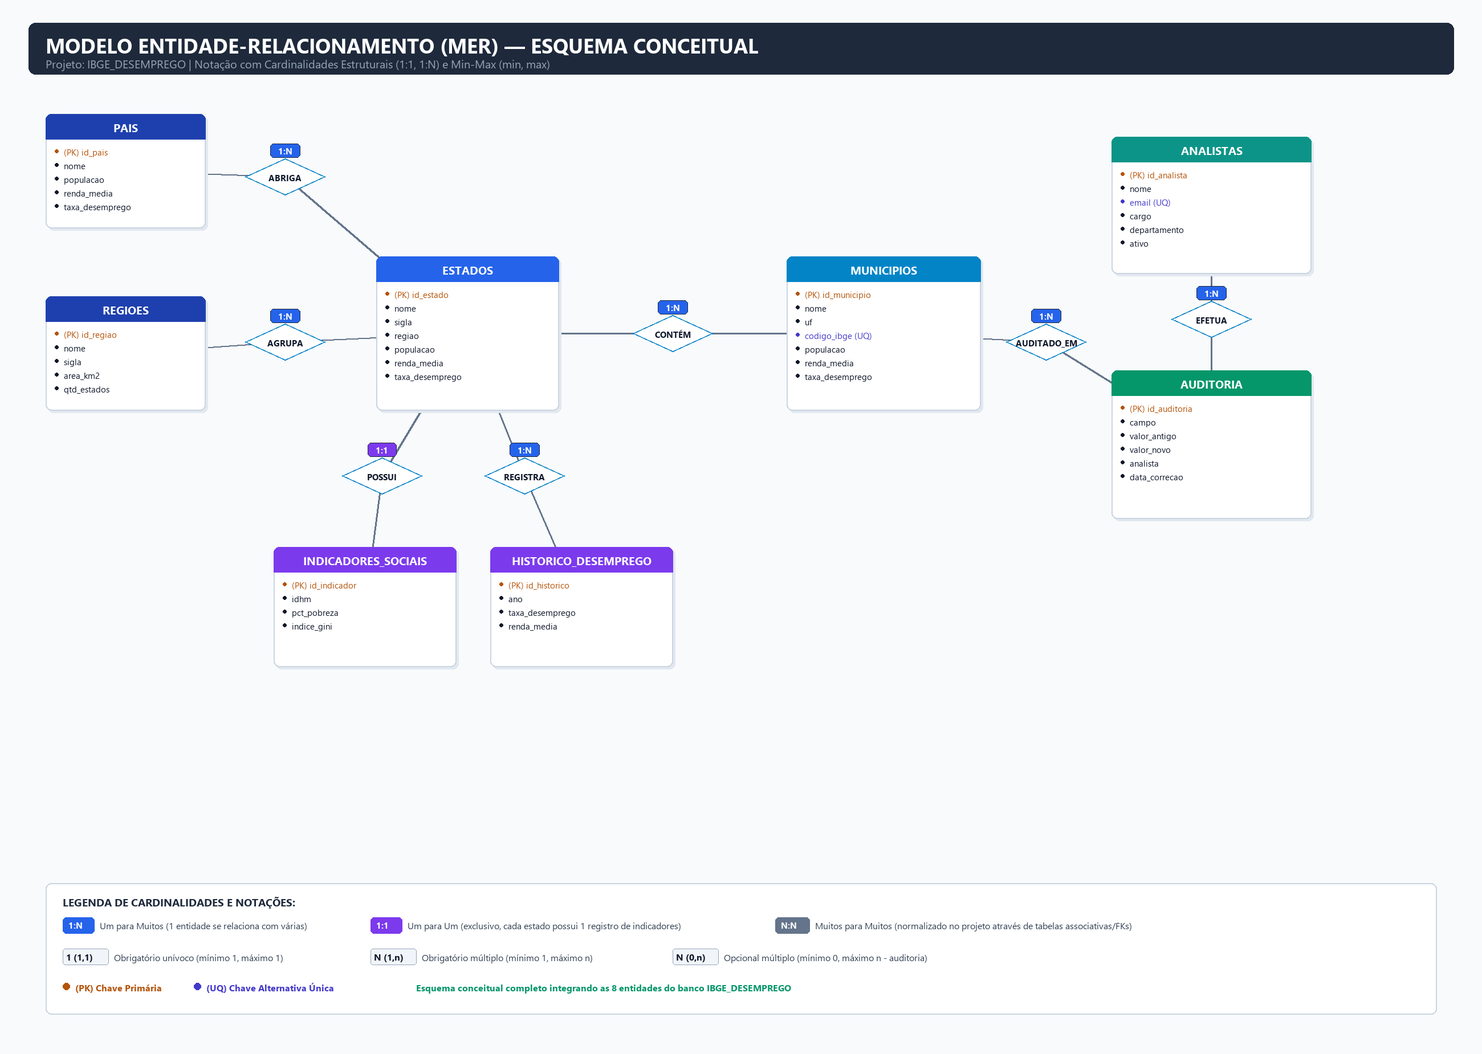
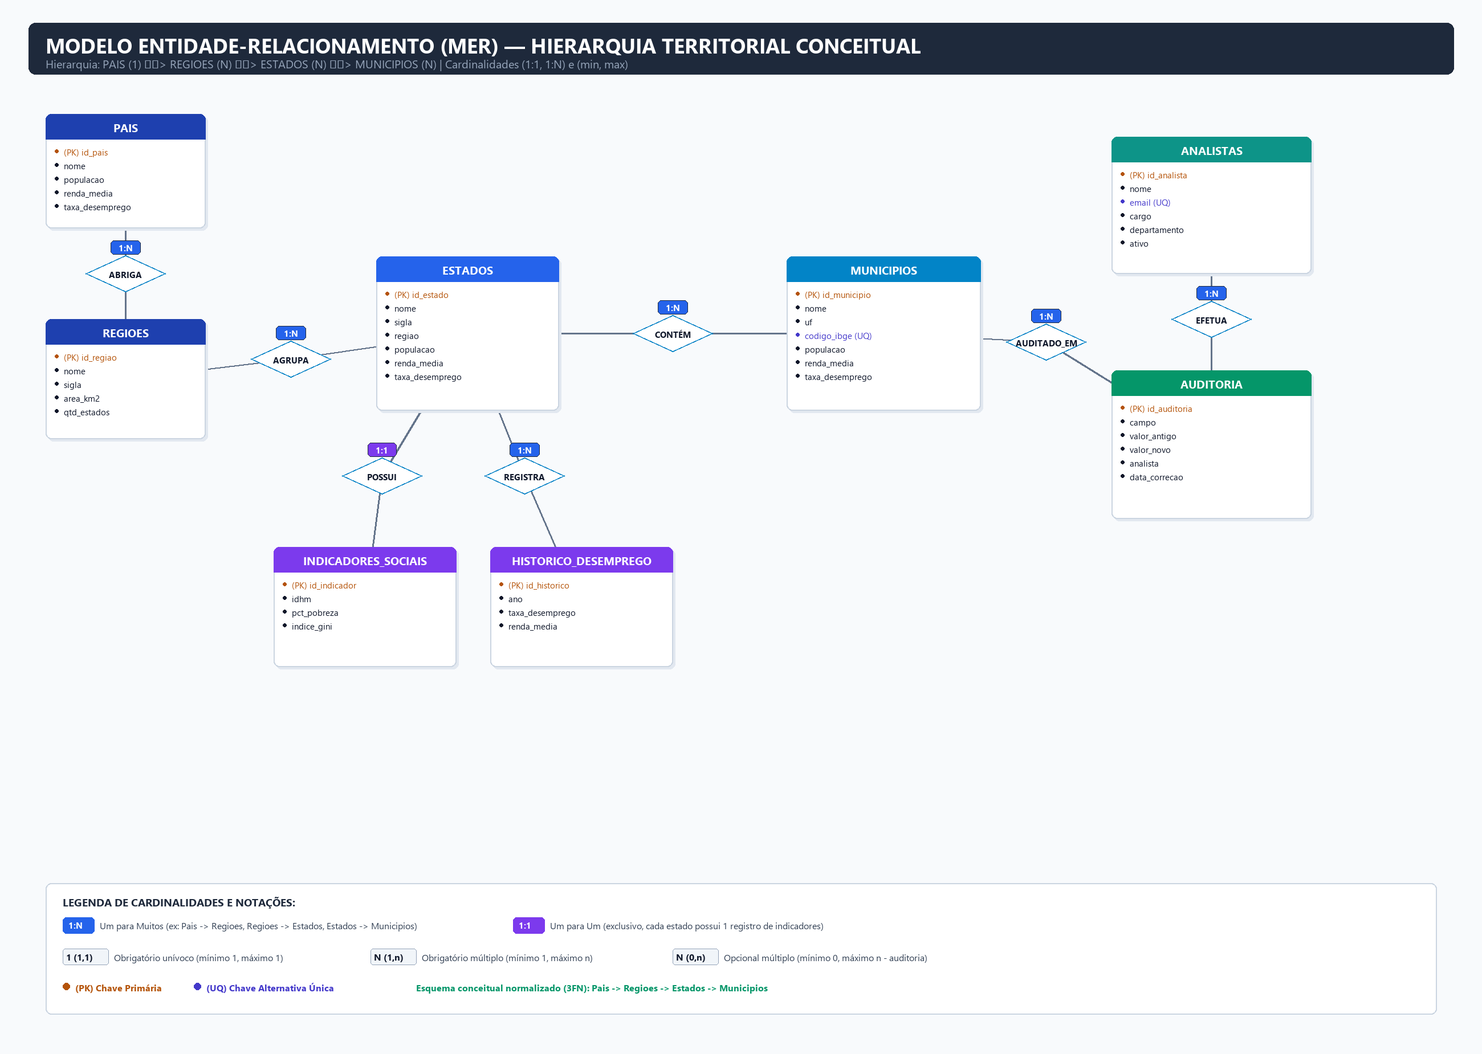
Normalizar hierarquia territorial para Pais -> Regioes -> Estados -> Municipios (3FN)
- Adicionado id_pais em Regioes como chave estrangeira de Pais
- Estados referencia exclusivamente Regioes (id_regiao NOT NULL), eliminando redundancia
- Atualizacao dos CSVs e scripts de inserts para Oracle e MySQL
- Regeneracao dos diagramas conceituais (MER) e relacionais (DER) em PNG
- Atualizacao do Minimundo e matriz de relacionamentos

diff --git a/modelagem/gerar_diagramas.py b/modelagem/gerar_diagramas.py
@@ -42,14 +42,13 @@ def generate_mer():
     f_rel = get_font("segoeuib.ttf", 15)
     f_badge = get_font("segoeuib.ttf", 15)
     f_card = get_font("segoeuib.ttf", 16)
-    f_card_macro = get_font("segoeuib.ttf", 22)
     f_leg = get_font("segoeui.ttf", 16)
     f_leg_b = get_font("segoeuib.ttf", 16)
 
     # Header
     draw_rounded_rect(draw, (50, 40, W - 50, 130), 12, fill="#1E293B")
-    draw.text((80, 55), "MODELO ENTIDADE-RELACIONAMENTO (MER) — ESQUEMA CONCEITUAL", font=f_title, fill="#FFFFFF")
-    draw.text((80, 98), "Projeto: IBGE_DESEMPREGO | Notação com Cardinalidades Estruturais (1:1, 1:N) e Min-Max (min, max)", font=f_sub, fill="#94A3B8")
+    draw.text((80, 55), "MODELO ENTIDADE-RELACIONAMENTO (MER) — HIERARQUIA TERRITORIAL CONCEITUAL", font=f_title, fill="#FFFFFF")
+    draw.text((80, 98), "Hierarquia: PAIS (1) ──> REGIOES (N) ──> ESTADOS (N) ──> MUNICIPIOS (N) | Cardinalidades (1:1, 1:N) e (min, max)", font=f_sub, fill="#94A3B8")
 
     # Entities Data
     entities = {
@@ -62,7 +61,7 @@ def generate_mer():
         "REGIOES": {
             "title": "REGIOES",
             "attrs": ["(PK) id_regiao", "nome", "sigla", "area_km2", "qtd_estados"],
-            "rect": (80, 520, 360, 720),
+            "rect": (80, 560, 360, 770),
             "header_color": "#1E40AF"
         },
         "ESTADOS": {
@@ -103,10 +102,10 @@ def generate_mer():
         }
     }
 
-    # Relationships with macro type (1:N, 1:1) and min-max
+    # Relationships reflecting PAIS -> REGIOES -> ESTADOS -> MUNICIPIOS
     relations = [
-        {"name": "ABRIGA", "macro": "1:N", "pos": (500, 310), "e1": "PAIS", "m1": "1", "c1": "(1,1)", "e2": "ESTADOS", "m2": "N", "c2": "(1,n)"},
-        {"name": "AGRUPA", "macro": "1:N", "pos": (500, 600), "e1": "REGIOES", "m1": "1", "c1": "(1,1)", "e2": "ESTADOS", "m2": "N", "c2": "(1,n)"},
+        {"name": "ABRIGA", "macro": "1:N", "pos": (220, 480), "e1": "PAIS", "m1": "1", "c1": "(1,1)", "e2": "REGIOES", "m2": "N", "c2": "(1,n)"},
+        {"name": "AGRUPA", "macro": "1:N", "pos": (510, 630), "e1": "REGIOES", "m1": "1", "c1": "(1,1)", "e2": "ESTADOS", "m2": "N", "c2": "(1,n)"},
         {"name": "POSSUI", "macro": "1:1", "pos": (670, 835), "e1": "ESTADOS", "m1": "1", "c1": "(1,1)", "e2": "INDICADORES_SOCIAIS", "m2": "1", "c2": "(1,1)"},
         {"name": "REGISTRA", "macro": "1:N", "pos": (920, 835), "e1": "ESTADOS", "m1": "1", "c1": "(1,1)", "e2": "HISTORICO_DESEMPREGO", "m2": "N", "c2": "(1,n)"},
         {"name": "CONTÉM", "macro": "1:N", "pos": (1180, 585), "e1": "ESTADOS", "m1": "1", "c1": "(1,1)", "e2": "MUNICIPIOS", "m2": "N", "c2": "(1,n)"},
@@ -114,7 +113,7 @@ def generate_mer():
         {"name": "EFETUA", "macro": "1:N", "pos": (2125, 560), "e1": "ANALISTAS", "m1": "1", "c1": "(1,1)", "e2": "AUDITORIA", "m2": "N", "c2": "(0,n)"}
     ]
 
-    # Draw Relations & Connecting Lines First
+    # Draw Relations & Connecting Lines
     for r in relations:
         cx, cy = r["pos"]
         e1 = entities[r["e1"]]["rect"]
@@ -126,13 +125,13 @@ def generate_mer():
         draw.line([c1_pt, (cx, cy)], fill="#64748B", width=3)
         draw.line([(cx, cy), c2_pt], fill="#64748B", width=3)
 
-        # Diamond (Losango do Relacionamento)
+        # Diamond
         rw, rh = 140, 64
         draw_diamond(draw, cx, cy, rw, rh, fill="#FFFFFF", outline="#0284C7", width=2)
         tw = draw.textlength(r["name"], font=f_rel)
         draw.text((cx - tw//2, cy - 9), r["name"], font=f_rel, fill="#0F172A")
 
-        # Macro Badge (ex: 1:N ou 1:1) right above diamond
+        # Macro Badge (1:N ou 1:1)
         badge_text = f"  {r['macro']}  "
         bw = draw.textlength(badge_text, font=f_badge) + 12
         badge_bg = "#2563EB" if r["macro"] == "1:N" else "#7C3AED"
@@ -145,29 +144,23 @@ def generate_mer():
         m2x = (c2_pt[0] * 3 + cx) // 4
         m2y = (c2_pt[1] * 3 + cy) // 4
 
-        # Near e1: Macro '1' or 'N' and Min-Max '(1,1)'
         draw_rounded_rect(draw, (m1x - 30, m1y - 15, m1x + 30, m1y + 15), 5, fill="#F1F5F9", outline="#94A3B8")
         draw.text((m1x - 24, m1y - 12), f"{r['m1']} {r['c1']}", font=f_card, fill="#0F172A")
 
-        # Near e2: Macro '1' or 'N' and Min-Max
         draw_rounded_rect(draw, (m2x - 30, m2y - 15, m2x + 30, m2y + 15), 5, fill="#F1F5F9", outline="#94A3B8")
         draw.text((m2x - 24, m2y - 12), f"{r['m2']} {r['c2']}", font=f_card, fill="#0F172A")
 
     # Draw Entities Boxes
     for k, e in entities.items():
         x0, y0, x1, y1 = e["rect"]
-        # Drop shadow
         draw_rounded_rect(draw, (x0+4, y0+4, x1+4, y1+4), 10, fill="#E2E8F0")
-        # Body
         draw_rounded_rect(draw, (x0, y0, x1, y1), 10, fill="#FFFFFF", outline="#CBD5E1", width=2)
-        # Header banner
         draw.rounded_rectangle([x0, y0, x1, y0 + 44], radius=10, fill=e["header_color"])
         draw.rectangle([x0, y0 + 30, x1, y0 + 44], fill=e["header_color"])
 
         tw = draw.textlength(e["title"], font=f_ent_title)
         draw.text(((x0 + x1)//2 - tw//2, y0 + 10), e["title"], font=f_ent_title, fill="#FFFFFF")
 
-        # Attributes list
         cur_y = y0 + 56
         for attr in e["attrs"]:
             is_pk = "(PK)" in attr
@@ -178,7 +171,6 @@ def generate_mer():
             elif is_uq:
                 color = "#4338CA"
 
-            # bullet point
             draw.ellipse((x0 + 16, cur_y + 6, x0 + 22, cur_y + 12), fill=color)
             draw.text((x0 + 32, cur_y), attr, font=f_ent_attr, fill=color)
             cur_y += 24
@@ -188,20 +180,14 @@ def generate_mer():
     draw_rounded_rect(draw, (leg_x0, leg_y0, leg_x1, leg_y1), 10, fill="#FFFFFF", outline="#CBD5E1", width=2)
     draw.text((leg_x0 + 30, leg_y0 + 20), "LEGENDA DE CARDINALIDADES E NOTAÇÕES:", font=get_font("segoeuib.ttf", 19), fill="#1E293B")
 
-    # Row 1: Macro Cardinalities
     draw_rounded_rect(draw, (leg_x0 + 30, leg_y0 + 60, leg_x0 + 85, leg_y0 + 88), 6, fill="#2563EB")
     draw.text((leg_x0 + 40, leg_y0 + 63), "1:N", font=f_badge, fill="#FFFFFF")
-    draw.text((leg_x0 + 95, leg_y0 + 63), "Um para Muitos (1 entidade se relaciona com várias)", font=f_leg, fill="#334155")
+    draw.text((leg_x0 + 95, leg_y0 + 63), "Um para Muitos (ex: Pais -> Regioes, Regioes -> Estados, Estados -> Municipios)", font=f_leg, fill="#334155")
 
-    draw_rounded_rect(draw, (leg_x0 + 570, leg_y0 + 60, leg_x0 + 625, leg_y0 + 88), 6, fill="#7C3AED")
-    draw.text((leg_x0 + 580, leg_y0 + 63), "1:1", font=f_badge, fill="#FFFFFF")
-    draw.text((leg_x0 + 635, leg_y0 + 63), "Um para Um (exclusivo, cada estado possui 1 registro de indicadores)", font=f_leg, fill="#334155")
+    draw_rounded_rect(draw, (leg_x0 + 820, leg_y0 + 60, leg_x0 + 875, leg_y0 + 88), 6, fill="#7C3AED")
+    draw.text((leg_x0 + 830, leg_y0 + 63), "1:1", font=f_badge, fill="#FFFFFF")
+    draw.text((leg_x0 + 885, leg_y0 + 63), "Um para Um (exclusivo, cada estado possui 1 registro de indicadores)", font=f_leg, fill="#334155")
 
-    draw_rounded_rect(draw, (leg_x0 + 1280, leg_y0 + 60, leg_x0 + 1340, leg_y0 + 88), 6, fill="#64748B")
-    draw.text((leg_x0 + 1290, leg_y0 + 63), "N:N", font=f_badge, fill="#FFFFFF")
-    draw.text((leg_x0 + 1350, leg_y0 + 63), "Muitos para Muitos (normalizado no projeto através de tabelas associativas/FKs)", font=f_leg, fill="#334155")
-
-    # Row 2: Min-Max and Badges
     draw_rounded_rect(draw, (leg_x0 + 30, leg_y0 + 115, leg_x0 + 110, leg_y0 + 143), 5, fill="#F1F5F9", outline="#94A3B8")
     draw.text((leg_x0 + 36, leg_y0 + 118), "1 (1,1)", font=f_card, fill="#0F172A")
     draw.text((leg_x0 + 120, leg_y0 + 119), "Obrigatório unívoco (mínimo 1, máximo 1)", font=f_leg, fill="#334155")
@@ -214,14 +200,13 @@ def generate_mer():
     draw.text((leg_x0 + 1106, leg_y0 + 118), "N (0,n)", font=f_card, fill="#0F172A")
     draw.text((leg_x0 + 1190, leg_y0 + 119), "Opcional múltiplo (mínimo 0, máximo n - auditoria)", font=f_leg, fill="#334155")
 
-    # Row 3: PK & UQ
     draw.ellipse((leg_x0 + 30, leg_y0 + 175, leg_x0 + 42, leg_y0 + 187), fill="#B45309")
     draw.text((leg_x0 + 52, leg_y0 + 172), "(PK) Chave Primária", font=f_leg_b, fill="#B45309")
 
     draw.ellipse((leg_x0 + 260, leg_y0 + 175, leg_x0 + 272, leg_y0 + 187), fill="#4338CA")
     draw.text((leg_x0 + 282, leg_y0 + 172), "(UQ) Chave Alternativa Única", font=f_leg_b, fill="#4338CA")
 
-    draw.text((leg_x0 + 650, leg_y0 + 172), "Esquema conceitual completo integrando as 8 entidades do banco IBGE_DESEMPREGO", font=get_font("segoeuib.ttf", 16), fill="#059669")
+    draw.text((leg_x0 + 650, leg_y0 + 172), "Esquema conceitual normalizado (3FN): Pais -> Regioes -> Estados -> Municipios", font=get_font("segoeuib.ttf", 16), fill="#059669")
 
     out_path = "modelagem/modelo_entidade_relacionamento.png"
     img.save(out_path, dpi=(300, 300))
@@ -247,8 +232,8 @@ def generate_relacional():
 
     # Header
     draw_rounded_rect(draw, (50, 40, W - 50, 130), 12, fill="#0F172A")
-    draw.text((80, 55), "MODELO RELACIONAL — ESQUEMA LÓGICO / FÍSICO COM CARDINALIDADES (1:1, 1:N)", font=f_title, fill="#FFFFFF")
-    draw.text((80, 98), "Tabelas, Colunas, Tipos de Dados, Chaves Primárias (PK), Estrangeiras (FK) e Cardinalidades Relacionais", font=f_sub, fill="#94A3B8")
+    draw.text((80, 55), "MODELO RELACIONAL — ESQUEMA LÓGICO / FÍSICO HIERÁRQUICO (3FN)", font=f_title, fill="#FFFFFF")
+    draw.text((80, 98), "Hierarquia: Pais (PK) -> Regioes (FK id_pais) -> Estados (FK id_regiao) -> Municipios (FK id_estado)", font=f_sub, fill="#94A3B8")
 
     # Tables specification
     tables = {
@@ -268,19 +253,19 @@ def generate_relacional():
             "title": "Regioes",
             "cols": [
                 ("id_regiao", "NUMBER(1)", "PK"),
+                ("id_pais", "NUMBER(4)", "FK"),
                 ("nome", "VARCHAR2(20)", "UQ"),
                 ("sigla", "VARCHAR2(2)", "UQ"),
                 ("area_km2", "NUMBER(10,2)", None),
                 ("qtd_estados", "NUMBER(2)", None),
             ],
-            "rect": (80, 490, 440, 700),
+            "rect": (80, 520, 440, 760),
             "color": "#1E40AF"
         },
         "Estados": {
             "title": "Estados",
             "cols": [
                 ("id_estado", "NUMBER(2)", "PK"),
-                ("id_pais", "NUMBER(4)", "FK"),
                 ("id_regiao", "NUMBER(1)", "FK"),
                 ("nome", "VARCHAR2(50)", None),
                 ("sigla", "VARCHAR2(2)", "UQ"),
@@ -289,7 +274,7 @@ def generate_relacional():
                 ("renda_media", "NUMBER(12,2)", None),
                 ("taxa_desemprego", "NUMBER(5,2)", None),
             ],
-            "rect": (660, 310, 1060, 680),
+            "rect": (660, 310, 1060, 650),
             "color": "#2563EB"
         },
         "Indicadores_Sociais": {
@@ -361,18 +346,18 @@ def generate_relacional():
         }
     }
 
-    # Foreign Key Connectors with Cardinality Badges (1:N or 1:1)
+    # Foreign Key Connectors: PAIS -> REGIOES -> ESTADOS -> MUNICIPIOS
     fk_links = [
-        # Estados.id_pais -> Pais.id_pais
-        {"from": (660, 380), "to": (440, 240), "color": "#2563EB", "card": "1:N", "pk_label": "1", "fk_label": "N"},
+        # Regioes.id_pais -> Pais.id_pais
+        {"from": (260, 520), "to": (260, 410), "color": "#1E40AF", "card": "1:N", "pk_label": "1", "fk_label": "N"},
         # Estados.id_regiao -> Regioes.id_regiao
-        {"from": (660, 410), "to": (440, 530), "color": "#2563EB", "card": "1:N", "pk_label": "1", "fk_label": "N"},
+        {"from": (660, 380), "to": (440, 590), "color": "#2563EB", "card": "1:N", "pk_label": "1", "fk_label": "N"},
         # Municipios.id_estado -> Estados.id_estado
         {"from": (1480, 380), "to": (1060, 350), "color": "#0284C7", "card": "1:N", "pk_label": "1", "fk_label": "N"},
         # Indicadores_Sociais.id_estado -> Estados.id_estado (1:1)
-        {"from": (680, 940), "to": (750, 680), "color": "#7C3AED", "card": "1:1", "pk_label": "1", "fk_label": "1"},
+        {"from": (680, 940), "to": (750, 650), "color": "#7C3AED", "card": "1:1", "pk_label": "1", "fk_label": "1"},
         # Historico_Desemprego.id_estado -> Estados.id_estado (1:N)
-        {"from": (1100, 940), "to": (950, 680), "color": "#7C3AED", "card": "1:N", "pk_label": "1", "fk_label": "N"},
+        {"from": (1100, 940), "to": (950, 650), "color": "#7C3AED", "card": "1:N", "pk_label": "1", "fk_label": "N"},
         # Auditoria.codigo_ibge -> Municipios.codigo_ibge (1:N)
         {"from": (2120, 715), "to": (1890, 490), "color": "#059669", "card": "1:N", "pk_label": "1", "fk_label": "N"},
         # Auditoria.id_analista -> Analistas.id_analista (1:N)
@@ -387,16 +372,23 @@ def generate_relacional():
 
         # Orthogonal path
         mid_x = (fx + tx) // 2
-        draw.line([(fx, fy), (mid_x, fy)], fill=color, width=3)
-        draw.line([(mid_x, fy), (mid_x, ty)], fill=color, width=3)
-        draw.line([(mid_x, ty), (tx, ty)], fill=color, width=3)
+        mid_y = (fy + ty) // 2
 
-        # End markers: circle at from (many/FK end), arrow at to (1/PK end)
+        if fx == tx:
+            # Vertical straight line
+            draw.line([(fx, fy), (tx, ty)], fill=color, width=3)
+            badge_x, badge_y = fx, mid_y
+        else:
+            draw.line([(fx, fy), (mid_x, fy)], fill=color, width=3)
+            draw.line([(mid_x, fy), (mid_x, ty)], fill=color, width=3)
+            draw.line([(mid_x, ty), (tx, ty)], fill=color, width=3)
+            badge_x, badge_y = mid_x, mid_y
+
         draw.ellipse((fx - 5, fy - 5, fx + 5, fy + 5), fill=color)
 
-        if tx > mid_x:
+        if tx > mid_x and fx != tx:
             draw.polygon([(tx, ty), (tx - 10, ty - 6), (tx - 10, ty + 6)], fill=color)
-        elif tx < mid_x:
+        elif tx < mid_x and fx != tx:
             draw.polygon([(tx, ty), (tx + 10, ty - 6), (tx + 10, ty + 6)], fill=color)
         elif ty > fy:
             draw.polygon([(tx, ty), (tx - 6, ty - 10), (tx + 6, ty - 10)], fill=color)
@@ -404,31 +396,24 @@ def generate_relacional():
             draw.polygon([(tx, ty), (tx - 6, ty + 10), (tx + 6, ty + 10)], fill=color)
 
         # Cardinality Badge directly on line
-        badge_x = mid_x
-        badge_y = (fy + ty) // 2
         b_text = f" {l['card']} "
         bw = draw.textlength(b_text, font=f_card_pill) + 10
         draw_rounded_rect(draw, (badge_x - bw//2, badge_y - 12, badge_x + bw//2, badge_y + 12), 5, fill="#FFFFFF", outline=color, width=2)
         draw.text((badge_x - bw//2 + 5, badge_y - 10), b_text, font=f_card_pill, fill=color)
 
-        # Text labels '1' near target and 'N' near source
         draw.text((tx + (10 if tx < fx else -20), ty - 18), l["pk_label"], font=get_font("segoeuib.ttf", 16), fill=color)
         draw.text((fx + (-22 if tx < fx else 10), fy - 18), l["fk_label"], font=get_font("segoeuib.ttf", 16), fill=color)
 
     # Draw Table Cards
     for k, t in tables.items():
         x0, y0, x1, y1 = t["rect"]
-        # Drop shadow
         draw_rounded_rect(draw, (x0+5, y0+5, x1+5, y1+5), 10, fill="#E2E8F0")
-        # Body
         draw_rounded_rect(draw, (x0, y0, x1, y1), 10, fill="#FFFFFF", outline="#CBD5E1", width=2)
-        # Header banner
         draw.rounded_rectangle([x0, y0, x1, y0 + 44], radius=10, fill=t["color"])
         draw.rectangle([x0, y0 + 30, x1, y0 + 44], fill=t["color"])
 
         draw.text((x0 + 16, y0 + 10), t["title"], font=f_tbl_title, fill="#FFFFFF")
 
-        # Columns
         cur_y = y0 + 54
         for col_name, col_type, tag in t["cols"]:
             if tag:
@@ -458,16 +443,14 @@ def generate_relacional():
     draw_rounded_rect(draw, (leg_x0, leg_y0, leg_x1, leg_y1), 10, fill="#FFFFFF", outline="#CBD5E1", width=2)
     draw.text((leg_x0 + 30, leg_y0 + 20), "LEGENDA DO ESQUEMA RELACIONAL E CARDINALIDADES:", font=get_font("segoeuib.ttf", 19), fill="#1E293B")
 
-    # Cardinality badges
     draw_rounded_rect(draw, (leg_x0 + 30, leg_y0 + 60, leg_x0 + 85, leg_y0 + 88), 5, fill="#FFFFFF", outline="#2563EB", width=2)
     draw.text((leg_x0 + 40, leg_y0 + 64), " 1:N ", font=f_card_pill, fill="#2563EB")
-    draw.text((leg_x0 + 95, leg_y0 + 64), "Relação 1 para N (1 chave primária referenciada por múltiplas linhas na FK)", font=f_leg, fill="#334155")
+    draw.text((leg_x0 + 95, leg_y0 + 64), "Relação 1 para N (Hierarquia 3FN: Pais -> Regioes -> Estados -> Municipios)", font=f_leg, fill="#334155")
 
-    draw_rounded_rect(draw, (leg_x0 + 800, leg_y0 + 60, leg_x0 + 855, leg_y0 + 88), 5, fill="#FFFFFF", outline="#7C3AED", width=2)
-    draw.text((leg_x0 + 810, leg_y0 + 64), " 1:1 ", font=f_card_pill, fill="#7C3AED")
-    draw.text((leg_x0 + 865, leg_y0 + 64), "Relação 1 para 1 (FK com constraint UNIQUE - relação unívoca)", font=f_leg, fill="#334155")
+    draw_rounded_rect(draw, (leg_x0 + 840, leg_y0 + 60, leg_x0 + 895, leg_y0 + 88), 5, fill="#FFFFFF", outline="#7C3AED", width=2)
+    draw.text((leg_x0 + 850, leg_y0 + 64), " 1:1 ", font=f_card_pill, fill="#7C3AED")
+    draw.text((leg_x0 + 905, leg_y0 + 64), "Relação 1 para 1 (FK com constraint UNIQUE - relação unívoca)", font=f_leg, fill="#334155")
 
-    # Badges explanations
     draw_rounded_rect(draw, (leg_x0 + 30, leg_y0 + 115, leg_x0 + 65, leg_y0 + 137), 4, fill="#FEF3C7", outline="#D97706")
     draw.text((leg_x0 + 38, leg_y0 + 118), "PK", font=f_tag, fill="#B45309")
     draw.text((leg_x0 + 75, leg_y0 + 116), "Primary Key (Chave Primária)", font=f_leg, fill="#334155")
@@ -480,7 +463,6 @@ def generate_relacional():
     draw.text((leg_x0 + 756, leg_y0 + 118), "UQ", font=f_tag, fill="#6D28D9")
     draw.text((leg_x0 + 795, leg_y0 + 116), "Unique Constraint (Restrição de Unicidade)", font=f_leg, fill="#334155")
 
-    # Lines explanation
     draw.line([(leg_x0 + 30, leg_y0 + 175), (leg_x0 + 70, leg_y0 + 175)], fill="#2563EB", width=3)
     draw.polygon([(leg_x0 + 75, leg_y0 + 175), (leg_x0 + 68, leg_y0 + 170), (leg_x0 + 68, leg_y0 + 180)], fill="#2563EB")
     draw.ellipse((leg_x0 + 26, leg_y0 + 171, leg_x0 + 34, leg_y0 + 179), fill="#2563EB")

diff --git a/modelagem/README.md b/modelagem/README.md
@@ -1,6 +1,6 @@
 # Entregável 1: Modelagem do Banco de Dados — IBGE_DESEMPREGO
 
-Este documento e pasta compõem o **Entregável Documental (Concepção e Modelagem)** da disciplina Banco de Dados 2 (IFSP), contemplando o **Minimundo**, o **Modelo Entidade-Relacionamento (MER)** e o **Modelo Relacional** integrando o esquema base do IBGE.
+Este documento e pasta compõem o **Entregável Documental (Concepção e Modelagem)** da disciplina Banco de Dados 2 (IFSP), contemplando o **Minimundo**, o **Modelo Entidade-Relacionamento (MER)** e o **Modelo Relacional** integrando o esquema base do IBGE em conformidade estrita com a 3ª Forma Normal (3FN).
 
 ---
 
@@ -8,10 +8,13 @@ Este documento e pasta compõem o **Entregável Documental (Concepção e Modela
 
 O sistema **IBGE_DESEMPREGO** tem por finalidade centralizar, gerenciar e disponibilizar dados socioeconômicos e estatísticas oficiais sobre o mercado de trabalho brasileiro, permitindo análises comparativas e espaciais entre macro-regiões, unidades federativas e municípios.
 
-### 1.1. Estrutura Territorial Base
-O domínio abrange o território nacional (**Pais**), subdividido nas cinco macro-regiões oficiais do IBGE (**Regioes**: Norte, Nordeste, Sudeste, Sul e Centro-Oeste). Cada região agrega múltiplos **Estados** (UFs), e cada estado é composto por dezenas ou centenas de **Municipios**. 
-* Cada estado possui código de identificação, sigla única de 2 caracteres, nome oficial, população residente, renda média e taxa de desocupação (desemprego).
-* Cada município é identificado unicamente pelo seu **código oficial do IBGE de 7 dígitos**, além de armazenar seu nome, UF de vínculo, população e os indicadores locais de rendimento médio e taxa de desemprego.
+### 1.1. Estrutura Territorial Base (Cadeia Hierárquica Normalizada)
+O domínio modela a divisão territorial brasileira de forma hierárquica e normalizada em cascata:
+$$\textbf{PAIS } (1) \xrightarrow{1:N} \textbf{REGIOES } (N) \xrightarrow{1:N} \textbf{ESTADOS } (N) \xrightarrow{1:N} \textbf{MUNICIPIOS } (N)$$
+
+* O território nacional (**Pais**) abriga as cinco macro-regiões oficiais do IBGE (**Regioes**: Norte, Nordeste, Sudeste, Sul e Centro-Oeste), onde cada região referencia seu país de origem (`Regioes.id_pais -> Pais.id_pais`).
+* Cada macro-região agrupa múltiplos **Estados** (Unidades Federativas), de modo que cada estado referencia unicamente sua região (`Estados.id_regiao -> Regioes.id_regiao`), eliminando dependências transitivas e redundâncias (3FN). Cada estado armazena seu código, sigla única (2 letras), nome oficial, população residente, renda média e taxa de desemprego.
+* Cada estado é composto por dezenas ou centenas de **Municipios**. Cada município é identificado unicamente pelo seu **código oficial do IBGE de 7 dígitos**, além de armazenar seu nome, UF de vínculo (`Municipios.id_estado -> Estados.id_estado`), população e indicadores locais de rendimento médio e taxa de desocupação.
 
 ### 1.2. Expansão Analítica e Séries Históricas
 Para viabilizar estudos longitudinais e cruzamento de vulnerabilidades:
@@ -28,12 +31,12 @@ Para manter a integridade dos dados, as informações municipais podem ser corri
 ## 2. 📌 Arquivos e Diagramas Disponíveis
 
 1. **`modelo_entidade_relacionamento.png` (MER Conceitual)**
-   * Diagrama Conceitual Entidade-Relacionamento.
+   * Diagrama Conceitual Entidade-Relacionamento com a hierarquia territorial `Pais -> Regioes -> Estados -> Municipios`.
    * Contempla as 8 entidades (`Pais`, `Regioes`, `Estados`, `Municipios`, `Analistas`, `Auditoria`, `Indicadores_Sociais`, `Historico_Desemprego`).
    * Apresenta os losangos de relacionamento com verbos semânticos (`ABRIGA`, `AGRUPA`, `CONTÉM`, `POSSUI`, `REGISTRA`, `AUDITADO_EM`, `EFETUA`), badges destacados com a cardinalidade macro (`1:N` e `1:1`) e as cardinalidades estruturais mínimas/máximas `(min, max)`.
 
 2. **`modelo_relacional.png` (Modelo Lógico Relacional / DER)**
-   * Esquema Lógico Relacional detalhado com todas as tabelas normalizadas.
+   * Esquema Lógico Relacional detalhado com todas as 8 tabelas normalizadas em 3FN.
    * Especificação formal das colunas com tipos de dados nativos do Oracle/MySQL (`NUMBER`, `VARCHAR2`, `DATE`).
    * Identificação de chaves primárias (**PK**), chaves estrangeiras (**FK**) e restrições de unicidade (**UQ**).
    * Linhas ortogonais de integridade referencial com marcadores e badges indicando as cardinalidades `1:N` e `1:1`.
@@ -47,8 +50,8 @@ Para manter a integridade dos dados, as informações municipais podem ser corri
 
 | Entidade Origem (1) | Verbo de Ligação | Cardinalidade | Entidade Destino (N / 1) | Chave Estrangeira (FK) | Regra de Integridade |
 | :--- | :---: | :---: | :--- | :--- | :--- |
-| **Pais** | Abriga | **1:N** | **Estados** | `Estados.id_pais` ──> `Pais.id_pais` | Cada estado pertence obrigatoriamente a 1 país. |
-| **Regioes** | Agrupa | **1:N** | **Estados** | `Estados.id_regiao` ──> `Regioes.id_regiao` | Cada estado pertence obrigatoriamente a 1 macro-região. |
+| **Pais** | Abriga | **1:N** | **Regioes** | `Regioes.id_pais` ──> `Pais.id_pais` | Cada macro-região pertence a 1 país. |
+| **Regioes** | Agrupa | **1:N** | **Estados** | `Estados.id_regiao` ──> `Regioes.id_regiao` | Cada estado pertence a 1 macro-região. |
 | **Estados** | Contém | **1:N** | **Municipios** | `Municipios.id_estado` ──> `Estados.id_estado` | Cada município pertence a um único estado. |
 | **Estados** | Possui | **1:1** | **Indicadores_Sociais** | `Indicadores_Sociais.id_estado` ──> `Estados.id_estado` | Exclusivo (`UNIQUE`), 1 registro de indicadores por UF. |
 | **Estados** | Registra | **1:N** | **Historico_Desemprego** | `Historico_Desemprego.id_estado` ──> `Estados.id_estado` | Série histórica anual por estado (`UNIQUE(id_estado, ano)`). |
